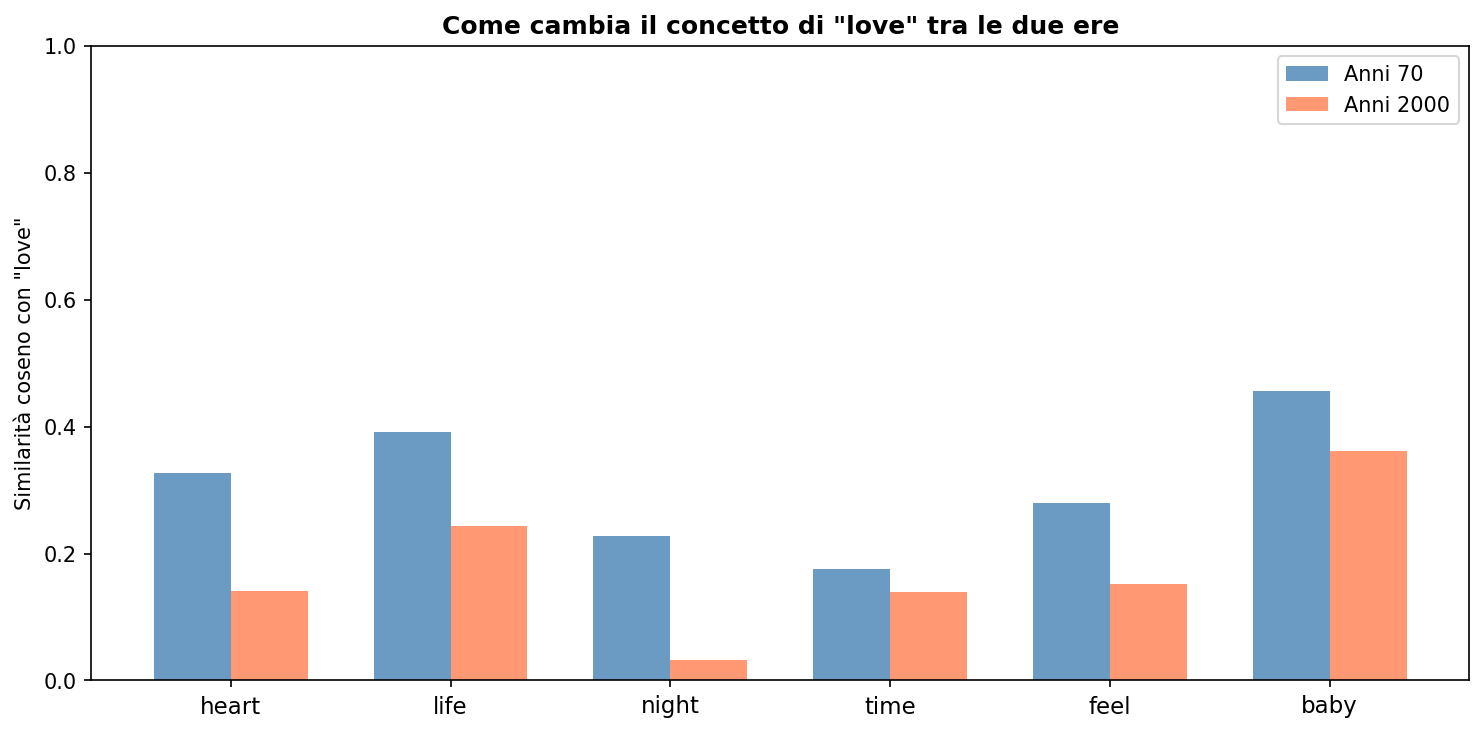
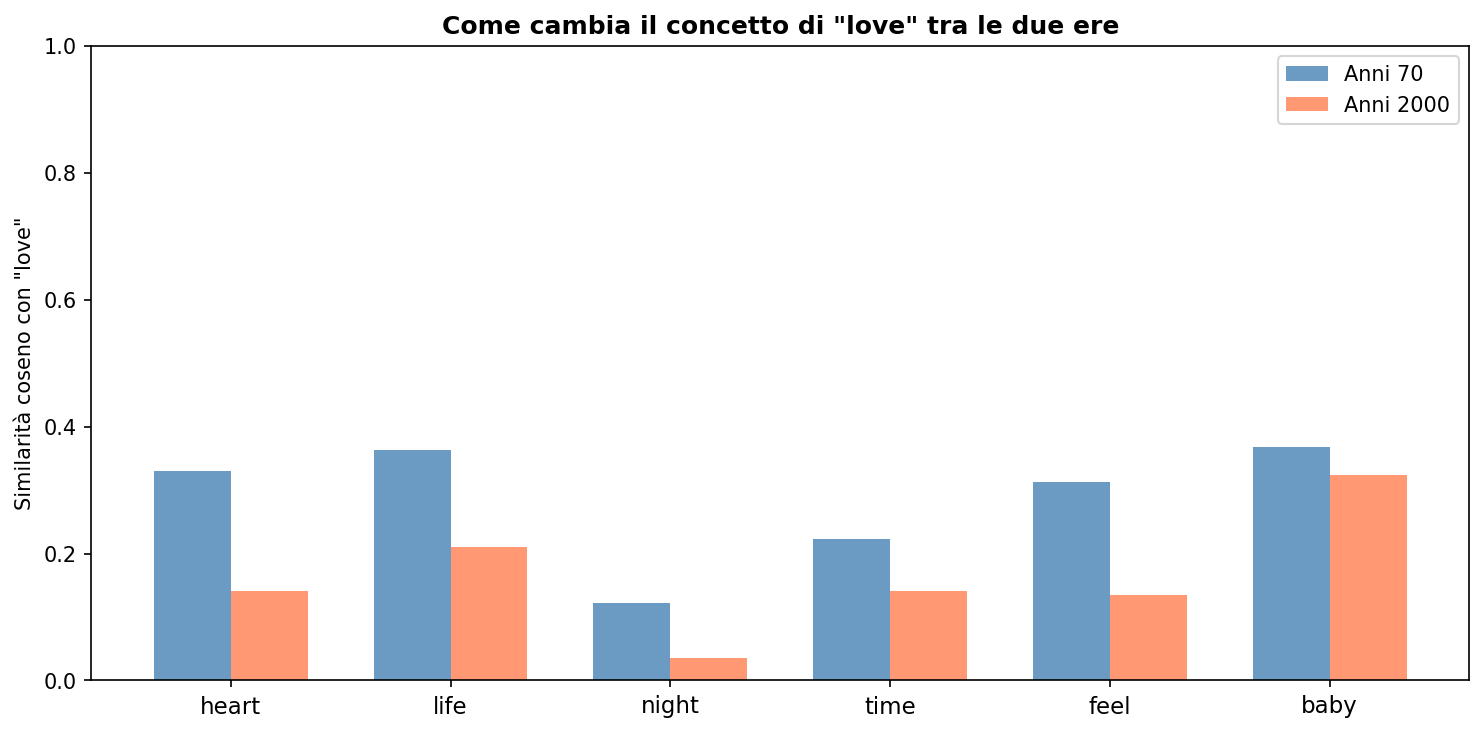
esercizio

diff --git a/TLN/Parte2Radicioni/lab8_word2vec.py b/TLN/Parte2Radicioni/lab8_word2vec.py
@@ -20,10 +20,6 @@ from sklearn.cluster import KMeans
 from sklearn.manifold import TSNE
 
 import nltk
-nltk.download('punkt')
-nltk.download('punkt_tab')
-nltk.download('stopwords')
-
 warnings.filterwarnings('ignore')
 
 stop = set(stopwords.words('english'))
@@ -47,7 +43,7 @@ print(f"Dataset: {df.shape[0]} canzoni, {df['artist'].nunique()} artisti")
 print("\n[STEP 2] Selezione artisti per era...")
 
 artisti_70s = [
-    'Led Zeppelin', 'Pink Floyd', 'Queen',
+    'Aerosmith', 'Pink Floyd', 'Queen',
     'Eagles', 'Fleetwood Mac', 'Bee Gees',
     'David Bowie', 'Elton John', 'ABBA',
     'Doors', 'Rolling Stones', 'Deep Purple'
@@ -74,40 +70,18 @@ print(f"Canzoni anni 2000:     {len(df_2000s)}")
 print("\n[STEP 3] Pulizia testi...")
 
 def pulisci_testo(testo):
-    """
-    Pulisce un testo lirico rimuovendo:
-    - indicazioni strutturali [Chorus], [Verse]...
-    - punteggiatura e caratteri non alfabetici
-    - stopwords NLTK
-    - parole molto corte (< 3 caratteri)
-    Restituisce una lista di token puliti.
-    """
     if not isinstance(testo, str):
         return []
-
-    # Rimuovi [Chorus], [Verse 1], etc.
     testo = re.sub(r'\[.*?\]', '', testo)
-
-    # Solo lettere e spazi
     testo = re.sub(r'[^a-zA-Z\s]', '', testo)
-
-    # Lowercase
     testo = testo.lower()
-
-    # Tokenizza con NLTK
-    tokens = word_tokenize(testo)
-
-    # Rimuovi stopwords e parole corte
-    tokens = [t for t in tokens
-              if t not in stop
-              and len(t) >= 3]
-
+    tokens = testo.split()
+    tokens = [t for t in tokens if t not in stop and len(t) >= 3]
     return tokens
 
 df_70s['tokens']   = df_70s['text'].apply(pulisci_testo)
 df_2000s['tokens'] = df_2000s['text'].apply(pulisci_testo)
 
-# Rimuovi canzoni vuote
 df_70s   = df_70s[df_70s['tokens'].map(len) > 5]
 df_2000s = df_2000s[df_2000s['tokens'].map(len) > 5]
 
@@ -136,13 +110,6 @@ for p, c in freq_2000s.most_common(15):
 # STEP 4: Addestramento Word2Vec
 # ============================================================
 print("\n[STEP 4] Addestramento Word2Vec...")
-
-# Parametri:
-# vector_size: dimensione embedding (quante dimensioni ha ogni vettore)
-# window:      contesto (quante parole prima/dopo considerare)
-# min_count:   ignora parole che appaiono meno di N volte
-# epochs:      quante volte scorre il dataset durante il training
-# seed:        per riproducibilità
 
 params = dict(
     vector_size = 100,
@@ -200,6 +167,8 @@ for w1, w2 in coppie:
             if w1 in model_2000s.wv and w2 in model_2000s.wv else "---"
     print(f"({w1}, {w2}){'':6} | {s70:>8} | {s2000:>10}")
 
+
+
 # ============================================================
 # STEP 7: Analisi vocabolario
 # ============================================================
@@ -216,7 +185,6 @@ print(f"Solo anni 70:   {len(solo_70s)} parole")
 print(f"Solo anni 2000: {len(solo_2000s)} parole")
 print(f"In comune:      {len(comuni)} parole")
 
-# Filtra parole con frequenza significativa
 interessanti_70s   = sorted(
     [p for p in solo_70s   if freq_70s[p]   > 20],
     key=lambda x: -freq_70s[x]
@@ -232,16 +200,146 @@ print(f"\nParole caratteristiche anni 2000 (freq > 20):")
 print(f"  {interessanti_2000s[:20]}")
 
 # ============================================================
+# ============================================================
+# STEP 6b: Analisi sistematica coppie di parole
+# ============================================================
+print("\n[STEP 6b] Analisi sistematica coppie...")
+
+FREQ_COPPIE = 100
+
+candidati = [
+    p for p in (vocab_70s & vocab_2000s)
+    if freq_70s[p] >= FREQ_COPPIE and freq_2000s[p] >= FREQ_COPPIE
+]
+
+print(f"Parole candidate (freq >= {FREQ_COPPIE} in entrambe): {len(candidati)}")
+print(f"Coppie totali da confrontare: {len(candidati) * (len(candidati)-1) // 2}")
+
+coppie_sist = []
+
+for i, w1 in enumerate(candidati):
+    for w2 in candidati[i+1:]:
+        s70   = model_70s.wv.similarity(w1, w2)
+        s2000 = model_2000s.wv.similarity(w1, w2)
+        delta = abs(s70 - s2000)
+        coppie_sist.append({
+            'w1':        w1,
+            'w2':        w2,
+            's70':       s70,
+            's2000':     s2000,
+            'delta':     delta,
+            'direzione': s2000 - s70,
+        })
+
+coppie_sist.sort(key=lambda x: -x['delta'])
+
+sep = "=" * 65
+sep2 = "-" * 65
+print("\n" + sep)
+print("TOP 20 COPPIE CON PIU' CAMBIAMENTO DI SIMILARITA'")
+print("(delta alto = la relazione tra queste parole e' cambiata molto)")
+print(sep)
+print(f"{'COPPIA':<26} {'ANNI 70':>8} {'ANNI 2000':>10} {'DELTA':>7}  TREND")
+print(sep2)
+
+for r in coppie_sist[:20]:
+    trend    = "piu' vicine ->" if r['direzione'] > 0 else "<- piu' lontane"
+    coppia   = f"({r['w1']}, {r['w2']})"
+    print(f"{coppia:<26} {r['s70']:>8.4f} {r['s2000']:>10.4f} {r['delta']:>7.4f}  {trend}")
+
+print("\n" + sep)
+print("TOP 10 COPPIE PIU' STABILI")
+print("(delta basso = la relazione e' rimasta praticamente uguale)")
+print(sep)
+print(f"{'COPPIA':<26} {'ANNI 70':>8} {'ANNI 2000':>10} {'DELTA':>7}")
+print(sep2)
+
+for r in coppie_sist[-10:][::-1]:
+    coppia = f"({r['w1']}, {r['w2']})"
+    print(f"{coppia:<26} {r['s70']:>8.4f} {r['s2000']:>10.4f} {r['delta']:>7.4f}")
+
+
+# STEP 7b: Analisi sistematica vocabolario comune
+# ============================================================
+print("\n[STEP 7b] Analisi sistematica parole comuni...")
+
+FREQ_MINIMA   = 30
+TOP_N_VICINI  = 10
+TOP_RISULTATI = 30
+
+parole_frequenti_comuni = [
+    p for p in comuni
+    if freq_70s[p] >= FREQ_MINIMA and freq_2000s[p] >= FREQ_MINIMA
+]
+
+print(f"Parole comuni con freq >= {FREQ_MINIMA} in entrambe le ere: "
+      f"{len(parole_frequenti_comuni)}")
+
+risultati = []
+
+for parola in parole_frequenti_comuni:
+    vicini_70s   = set(w for w,_ in model_70s.wv.most_similar(parola,   topn=TOP_N_VICINI))
+    vicini_2000s = set(w for w,_ in model_2000s.wv.most_similar(parola, topn=TOP_N_VICINI))
+
+    n_comuni_v  = len(vicini_70s & vicini_2000s)
+    overlap     = n_comuni_v / TOP_N_VICINI
+    cambiamento = 1 - overlap
+
+    risultati.append({
+        'parola':       parola,
+        'cambiamento':  cambiamento,
+        'overlap':      overlap,
+        'vicini_70s':   vicini_70s,
+        'vicini_2000s': vicini_2000s,
+        'freq_70s':     freq_70s[parola],
+        'freq_2000s':   freq_2000s[parola],
+    })
+
+risultati.sort(key=lambda x: -x['cambiamento'])
+
+print(f"\n{'='*70}")
+print(f"TOP {TOP_RISULTATI} PAROLE CHE HANNO CAMBIATO PIU' CONTESTO")
+print(f"(overlap basso = vicini completamente diversi tra le due ere)")
+print(f"{'='*70}")
+print(f"{'#':<4} {'PAROLA':<12} {'CAMBIAMENTO':>12} {'OVERLAP':>8} "
+      f"{'FREQ 70s':>9} {'FREQ 2000s':>10}")
+print("-" * 70)
+
+for i, r in enumerate(risultati[:TOP_RISULTATI]):
+    print(f"{i+1:<4} {r['parola']:<12} {r['cambiamento']:>11.0%} "
+          f"{r['overlap']:>8.0%} {r['freq_70s']:>9} {r['freq_2000s']:>10}")
+
+print(f"\n{'='*70}")
+print("DETTAGLIO TOP 10: cosa era vicino prima vs adesso")
+print(f"{'='*70}")
+
+for r in risultati[:10]:
+    p            = r['parola']
+    solo_70s_v   = r['vicini_70s']  - r['vicini_2000s']
+    solo_2000s_v = r['vicini_2000s'] - r['vicini_70s']
+    rimasti      = r['vicini_70s']  & r['vicini_2000s']
+
+    print(f"\n[ {p.upper()} ]  cambiamento: {r['cambiamento']:.0%}  "
+          f"(freq: {r['freq_70s']} anni70 / {r['freq_2000s']} anni2000)")
+    print(f"  Vicini spariti  (solo anni 70):   {', '.join(sorted(solo_70s_v))}")
+    print(f"  Vicini nuovi    (solo anni 2000): {', '.join(sorted(solo_2000s_v))}")
+    print(f"  Rimasti stabili:                  {', '.join(sorted(rimasti)) or 'nessuno'}")
+
+print(f"\n{'='*70}")
+print(f"TOP 10 PAROLE PIU' STABILI (contesto quasi identico tra le ere)")
+print(f"{'='*70}")
+
+for r in risultati[-10:][::-1]:
+    vicini_comuni_str = ', '.join(sorted(r['vicini_70s'] & r['vicini_2000s']))
+    print(f"  {r['parola']:<12} overlap: {r['overlap']:.0%}  "
+          f"| vicini comuni: {vicini_comuni_str}")
+
+# ============================================================
 # STEP 8: Clustering K-Means
 # ============================================================
 print("\n[STEP 8] Clustering K-Means...")
 
 def fai_clustering(model, n_clusters=6, top_words=200):
-    """
-    Prende le top_words parole più comuni nel vocabolario,
-    le rappresenta come vettori Word2Vec e le raggruppa
-    con K-Means in n_clusters cluster.
-    """
     parole  = model.wv.index_to_key[:top_words]
     vettori = np.array([model.wv[w] for w in parole])
     km      = KMeans(n_clusters=n_clusters, random_state=42, n_init=10)
@@ -267,10 +365,6 @@ for cid, parole_cl in sorted(cl_2000s.items()):
 print("\n[STEP 9] Generazione grafici...")
 
 def tsne_plot(parole, vettori, labels, titolo, ax, n_clusters=6):
-    """
-    Riduce i vettori a 2D con t-SNE e li visualizza
-    colorati per cluster. Annota le parole più significative.
-    """
     tsne = TSNE(n_components=2, random_state=42,
                 perplexity=30, max_iter=1000)
     v2d  = tsne.fit_transform(vettori)
@@ -306,13 +400,11 @@ fig.suptitle('Word2Vec - Testi Musicali: Anni 70 vs Anni 2000',
              fontsize=15, fontweight='bold')
 
 tsne_plot(par_70s, vec_70s, lbl_70s,
-          'Cluster parole anni 70\n'
-          '(Pink Floyd, Queen, Eagles, Bee Gees...)',
+          'Cluster parole anni 70\n(Pink Floyd, Queen, Eagles, Bee Gees...)',
           axes[0, 0])
 
 tsne_plot(par_2000s, vec_2000s, lbl_2000s,
-          'Cluster parole anni 2000\n'
-          '(Eminem, Coldplay, Lady Gaga, Taylor Swift...)',
+          'Cluster parole anni 2000\n(Eminem, Coldplay, Lady Gaga, Taylor Swift...)',
           axes[0, 1])
 
 top15_70s   = freq_70s.most_common(15)
@@ -354,14 +446,36 @@ ax2.bar(x + width/2,
 ax2.set_xticks(x)
 ax2.set_xticklabels(parole_sim, fontsize=11)
 ax2.set_ylabel('Similarità coseno con "love"')
-ax2.set_title('Come cambia il concetto di "love" tra le due ere',
-              fontweight='bold')
+ax2.set_title('Come cambia il concetto di "love" tra le due ere', fontweight='bold')
 ax2.legend()
 ax2.set_ylim(0, 1)
 
 plt.tight_layout()
 plt.savefig('word2vec_similarita.png', dpi=150, bbox_inches='tight')
 print("Salvato: word2vec_similarita.png")
+
+# --- Grafico 3: cambiamento semantico top 20 parole ---
+fig3, ax3 = plt.subplots(figsize=(10, 8))
+
+top20 = risultati[:20]
+nomi  = [r['parola'] for r in top20][::-1]
+vals  = [r['cambiamento'] for r in top20][::-1]
+
+bars = ax3.barh(nomi, vals, color='mediumpurple', alpha=0.8)
+ax3.set_xlabel('Cambiamento semantico (1 - overlap vicini)')
+ax3.set_title('Top 20 parole con maggior cambiamento contestuale\n'
+              'tra anni 70 e anni 2000', fontweight='bold')
+ax3.set_xlim(0, 1)
+ax3.axvline(x=0.5, color='gray', linestyle='--', alpha=0.5, label='50% cambiamento')
+ax3.legend()
+
+for bar, val in zip(bars, vals):
+    ax3.text(bar.get_width() + 0.01, bar.get_y() + bar.get_height()/2,
+             f'{val:.0%}', va='center', fontsize=9)
+
+plt.tight_layout()
+plt.savefig('word2vec_cambiamento.png', dpi=150, bbox_inches='tight')
+print("Salvato: word2vec_cambiamento.png")
 
 # ============================================================
 # STEP 10: Riepilogo
@@ -397,3 +511,4 @@ print("\nLab completato!")
 print("File generati:")
 print("  - word2vec_analisi.png")
 print("  - word2vec_similarita.png")
+print("  - word2vec_cambiamento.png")